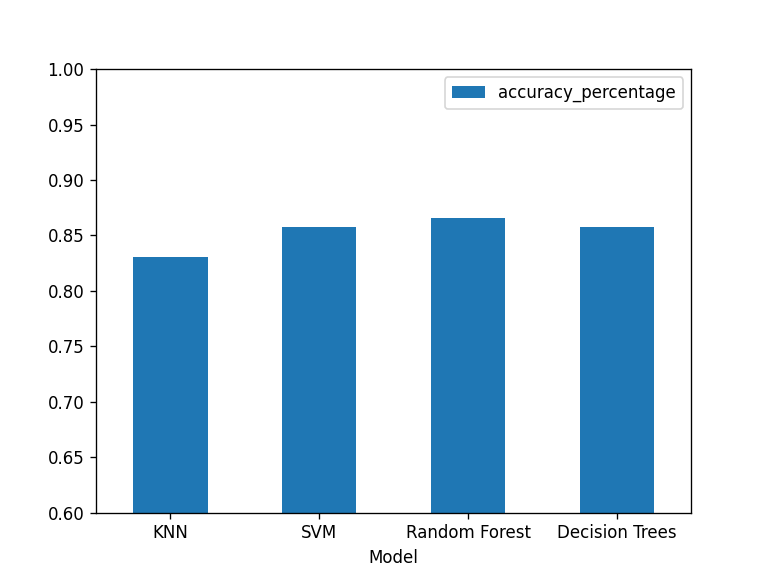
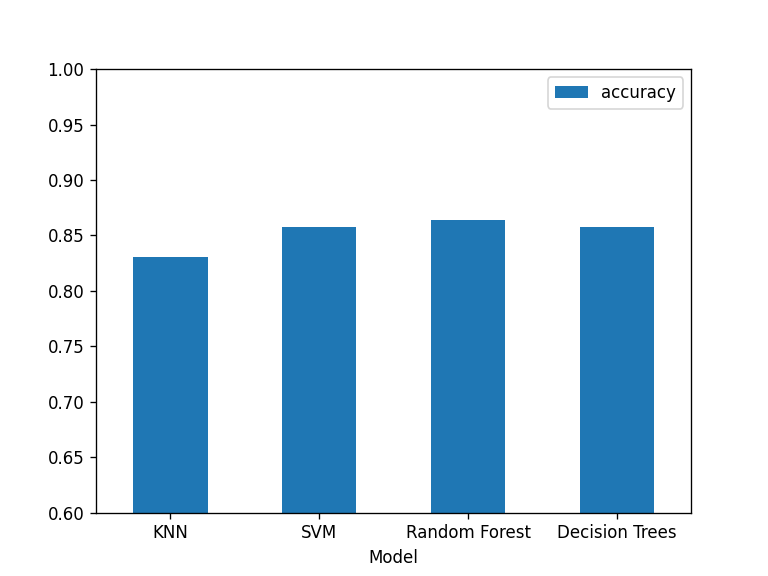
clean up

Changed region(s): [[0.5625, 0.125, 0.875, 0.2188], [0.5625, 0.375, 0.6562, 0.4062]]

diff --git a/model.py b/model.py
@@ -86,9 +86,12 @@ percent4 = metrics.accuracy_score(y_test,prediction4)
 percent4
 
 models = pd.DataFrame({'name_model':["KNN","SVM","Random Forest","Decision Trees"],\
-                                'accuracy_percentage':[percent1,percent2,percent3,percent4]})
-print(models)
-models.plot.bar(x='name_model', y='accuracy_percentage', rot=0)
+                                'accuracy':[percent1,percent2,percent3,percent4]})
+
+
+models.to_csv('results.txt', sep='\t', index=False)
+
+models.plot.bar(x='name_model', y='accuracy', rot=0)
 plt.ylim((0.6,1))
 plt.xlabel('Model')
 plt.savefig('accuracies.png',dpi=120)
